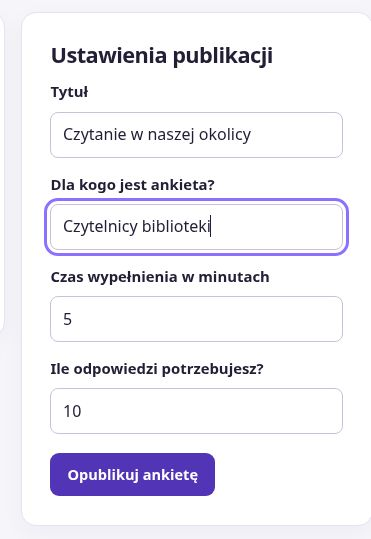
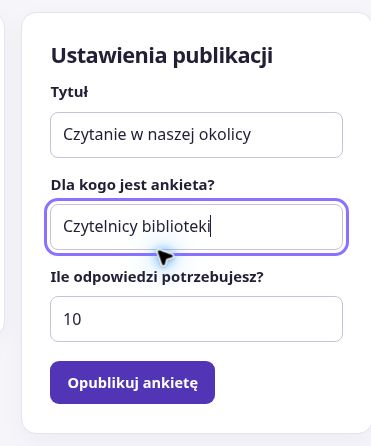
Remove survey completion time

Changed region(s): [[0.1186, 0.0874, 0.9488, 0.6413], [0.1186, 0.6704, 0.7116, 0.9327], [0.1186, 0.7578, 0.1482, 0.787]]

diff --git a/src/handler.js b/src/handler.js
@@ -184,7 +184,7 @@ function validation(questions, values) {
 
 function availableSurveys(db, userId) {
   return db.all(`
-    SELECT surveys.id, surveys.title, surveys.audience, surveys.time_minutes
+    SELECT surveys.id, surveys.title, surveys.audience
     FROM surveys
     WHERE owner_id <> ?
       AND goal > (SELECT COUNT(*) FROM responses WHERE survey_id = surveys.id)
@@ -371,17 +371,16 @@ function surveySettings(form) {
   return {
     title: (form.get('title') || '').trim(),
     audience: (form.get('audience') || '').trim(),
-    time: form.get('time'),
     goal: form.get('goal'),
   };
 }
 
 function validSurveySettings(values) {
   return values.title && values.title.length <= 200 && values.audience && values.audience.length <= 200
-    && int(values.time, 1, 120) && int(values.goal, 1, 10_000);
+    && int(values.goal, 1, 10_000);
 }
 
-const settingsError = 'Sprawdź tytuł, grupę odbiorców, czas i liczbę odpowiedzi.';
+const settingsError = 'Sprawdź tytuł, grupę odbiorców i liczbę odpowiedzi.';
 
 async function publishRoute(req, res, draft, context) {
   const schema = await getDraft(context.db, draft, context.user.id);
@@ -394,11 +393,12 @@ async function publishRoute(req, res, draft, context) {
 
   const published = await context.db.transaction(async tx => {
     await getDraft(tx, draft, context.user.id);
+    // time_minutes is required by existing databases.
     const result = await tx.run(`
       INSERT INTO surveys (owner_id, source_key, title, description, audience, time_minutes, goal, questions_json, created_at)
-      VALUES (?, ?, ?, ?, ?, ?, ?, ?, ?) ON CONFLICT(source_key) DO NOTHING
+      VALUES (?, ?, ?, ?, ?, 5, ?, ?, ?) ON CONFLICT(source_key) DO NOTHING
     `, context.user.id, schema.sourceKey, values.title, schema.description, values.audience,
-      Number(values.time), Number(values.goal), JSON.stringify(schema.questions), Date.now());
+      Number(values.goal), JSON.stringify(schema.questions), Date.now());
     if (!result.changes) return false;
     await tx.run('DELETE FROM drafts WHERE id = ?', draft);
     return true;
@@ -420,9 +420,9 @@ async function editSurveyRoute(req, res, surveyId, context, message) {
   }
 
   await context.db.run(`
-    UPDATE surveys SET title = ?, description = ?, audience = ?, time_minutes = ?, goal = ?
+    UPDATE surveys SET title = ?, description = ?, audience = ?, goal = ?
     WHERE id = ? AND owner_id = ?
-  `, values.title, values.description, values.audience, Number(values.time), Number(values.goal), surveyId, context.user.id);
+  `, values.title, values.description, values.audience, Number(values.goal), surveyId, context.user.id);
   redirect(res, '/moje?status=edited');
 }
 

diff --git a/src/views.js b/src/views.js
@@ -122,7 +122,7 @@ export function authView({ mode, csrf, errors, values = {}, googleEnabled }) {
 
 function surveyCard(survey) {
   return `<article class="card survey-card">
-    <div class="survey-card-top">${tileIcon('surveys-icon')}<span class="tag">${number(survey.time_minutes)} min</span></div>
+    ${tileIcon('surveys-icon')}
     <h3><a href="/ankiety/${survey.id}">${escape(survey.title)}</a></h3>
     <p>Odbiorcy · ${escape(survey.audience)}</p>
     <a class="button secondary" href="/ankiety/${survey.id}">Wypełnij ankietę</a>
@@ -190,8 +190,6 @@ function surveySettingsFields(values) {
     <input id="title" name="title" value="${escape(values.title)}" maxlength="200" required>
     <label for="audience">Dla kogo jest ankieta?</label>
     <input id="audience" name="audience" value="${escape(values.audience)}" placeholder="Np. studenci ratownictwa" maxlength="200" required>
-    <label for="time">Czas wypełnienia w minutach</label>
-    <input id="time" name="time" type="number" min="1" max="120" value="${escape(values.time ?? 5)}" required>
     <label for="goal">Ile odpowiedzi potrzebujesz?</label>
     <input id="goal" name="goal" type="number" min="1" max="10000" value="${escape(values.goal ?? 10)}" required>`;
 }
@@ -226,7 +224,7 @@ export function previewView({ user, csrf, draft, schema, error, values = {} }) {
 export function editSurveyView({ user, csrf, survey, message, error, questionsError, link = '', values }) {
   values ??= {
     title: survey.title, description: survey.description, audience: survey.audience,
-    time: survey.time_minutes, goal: survey.goal,
+    goal: survey.goal,
   };
   return shell({ title: 'Edytuj ankietę', user, csrf, tab: 'mine', main: `
     <div class="page-heading"><a class="back" href="/moje">Moje ankiety</a><h1>Edytuj ankietę</h1><p>${escape(survey.title)}</p></div>
@@ -308,7 +306,7 @@ export function takeView({ user, csrf, survey, questions, questionVersion, value
   return shell({ title: survey.title, user, csrf, tab: 'browse', main: `
     <div class="take-wrap">
       <div class="page-heading"><a class="back" href="/">Wszystkie ankiety</a><h1>${escape(survey.title)}</h1>
-        <p>${number(survey.time_minutes)} min · Odbiorcy: ${escape(survey.audience)}</p>
+        <p>Odbiorcy: ${escape(survey.audience)}</p>
         ${survey.description ? `<p class="preserve">${escape(survey.description)}</p>` : ''}
       </div>
       ${status(error, true)}

diff --git a/src/guide.js b/src/guide.js
@@ -1,6 +1,6 @@
 const screens = {
   import: [725, 342, 'Pole Link do formularza i przycisk Importuj pytania', 2],
-  opublikuj: [371, 539, 'Ustawienia publikacji z przyciskiem Opublikuj ankietę na dole', 1],
+  opublikuj: [371, 446, 'Ustawienia publikacji z przyciskiem Opublikuj ankietę na dole', 1],
   wybierz: [551, 324, 'Przykładowa ankieta na liście z przyciskiem Wypełnij ankietę', 1],
   wyslij: [805, 414, 'Zaznaczona odpowiedź i przycisk Wyślij odpowiedzi pod pytaniami', 1],
   moje: [870, 250, 'Ankieta w zakładce Moje ankiety z przyciskiem Zobacz wyniki', 1],
@@ -51,7 +51,7 @@ export function guideContents() {
         </li>
         <li>
           <h3>Opublikuj ankietę</h3>
-          <p>Sprawdź pytania w podglądzie. Podaj, dla kogo jest ankieta, ile minut zajmie i ilu odpowiedzi potrzebujesz.</p>
+          <p>Sprawdź pytania w podglądzie. Podaj, dla kogo jest ankieta i ilu odpowiedzi potrzebujesz.</p>
           <p>Kliknij <strong>Opublikuj ankietę</strong>. Zobaczysz ją od razu w <strong>Moich ankietach</strong>. Aby zmienić jej ustawienia, kliknij <strong>Edytuj</strong>.</p>
           ${screenshot('opublikuj')}
         </li>

diff --git a/public/assets/app.css b/public/assets/app.css
@@ -258,7 +258,7 @@ progress::-moz-progress-bar { background: var(--purple); border-radius: 1rem; }
 .guide-highlight { position: absolute; border: 3px solid #b91c37; border-radius: 9px; box-shadow: 0 0 0 1px white; pointer-events: none; }
 .shot-import .guide-highlight:nth-of-type(1) { left: 5.31%; top: 46.08%; width: 89.44%; height: 15.78%; }
 .shot-import .guide-highlight:nth-of-type(2) { left: 5.31%; top: 73.86%; width: 22.89%; height: 14.91%; }
-.shot-opublikuj .guide-highlight { left: 10.21%; top: 83.37%; width: 46.5%; height: 9.46%; }
+.shot-opublikuj .guide-highlight { left: 10.21%; top: 80.08%; width: 46.5%; height: 11.43%; }
 .shot-wybierz .guide-highlight { left: 5.1%; top: 75.69%; width: 29.78%; height: 15.74%; }
 .shot-wyslij .guide-highlight { left: 1.08%; top: 85.71%; width: 21.25%; height: 12.32%; }
 .shot-moje .guide-highlight { left: 3.23%; top: 68.29%; width: 16.55%; height: 20.4%; }

diff --git a/README.md b/README.md
@@ -25,7 +25,7 @@ Na hostingu ustaw `HOST=0.0.0.0`, port przekazany przez hosting oraz `NODE_ENV=p
 
 1. Opublikuj formularz Google i udostępnij go wszystkim osobom z linkiem.
 2. W aplikacji wybierz **Dodaj ankietę** i wklej link dla respondentów. Możesz też wkleić skrócony link z `forms.gle`.
-3. Sprawdź podgląd, wpisz grupę odbiorców, czas wypełnienia i liczbę potrzebnych odpowiedzi, a następnie opublikuj ankietę.
+3. Sprawdź podgląd, wpisz grupę odbiorców i liczbę potrzebnych odpowiedzi, a następnie opublikuj ankietę.
 
 Importer odczytuje publicznie dostępny widok Google Forms. Obsługuje krótką i długą odpowiedź, jednokrotny i wielokrotny wybór z opcją „Inne” i własną odpowiedzią, listę rozwijaną, skalę i nagłówki sekcji bez rozgałęzień. Pole krótkiej odpowiedzi „Kod uczestnika” jest pomijane, ponieważ aplikacja przypisuje każde zgłoszenie do zalogowanego konta. Formularze prywatne i nieobsługiwane elementy, takie jak przesyłanie plików i rozgałęzienia, powodują komunikat przed publikacją.
 
